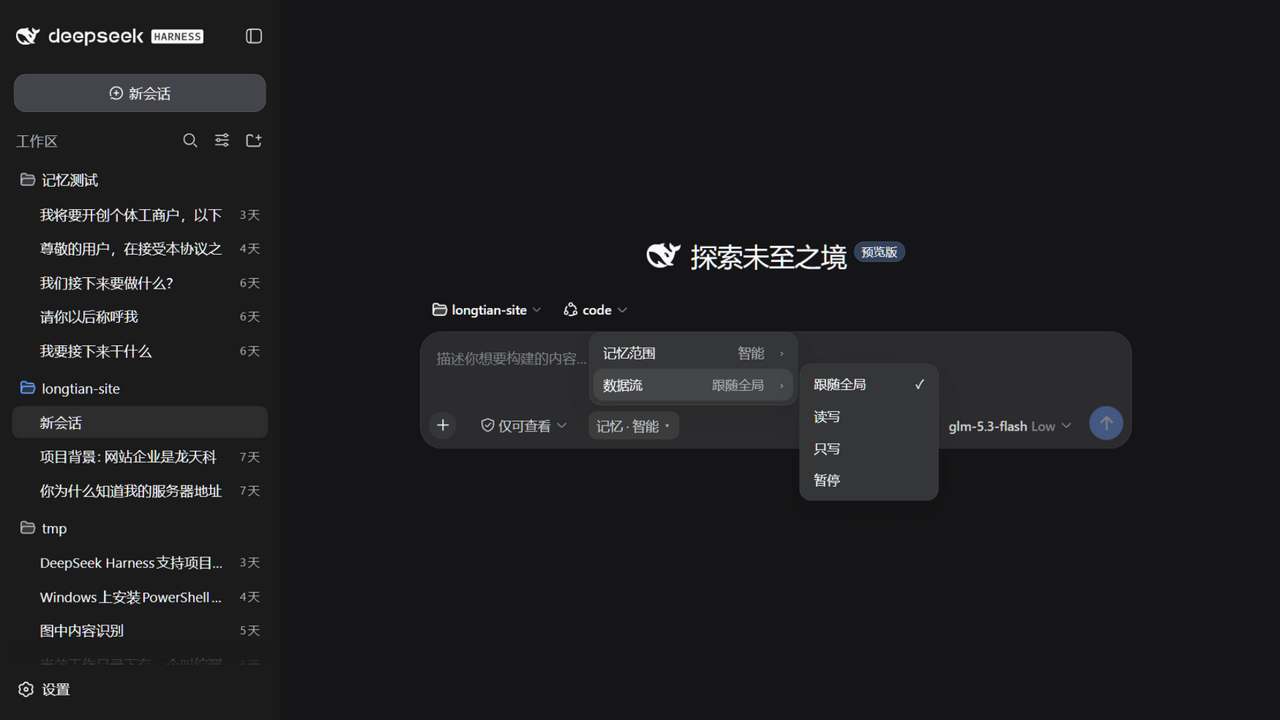
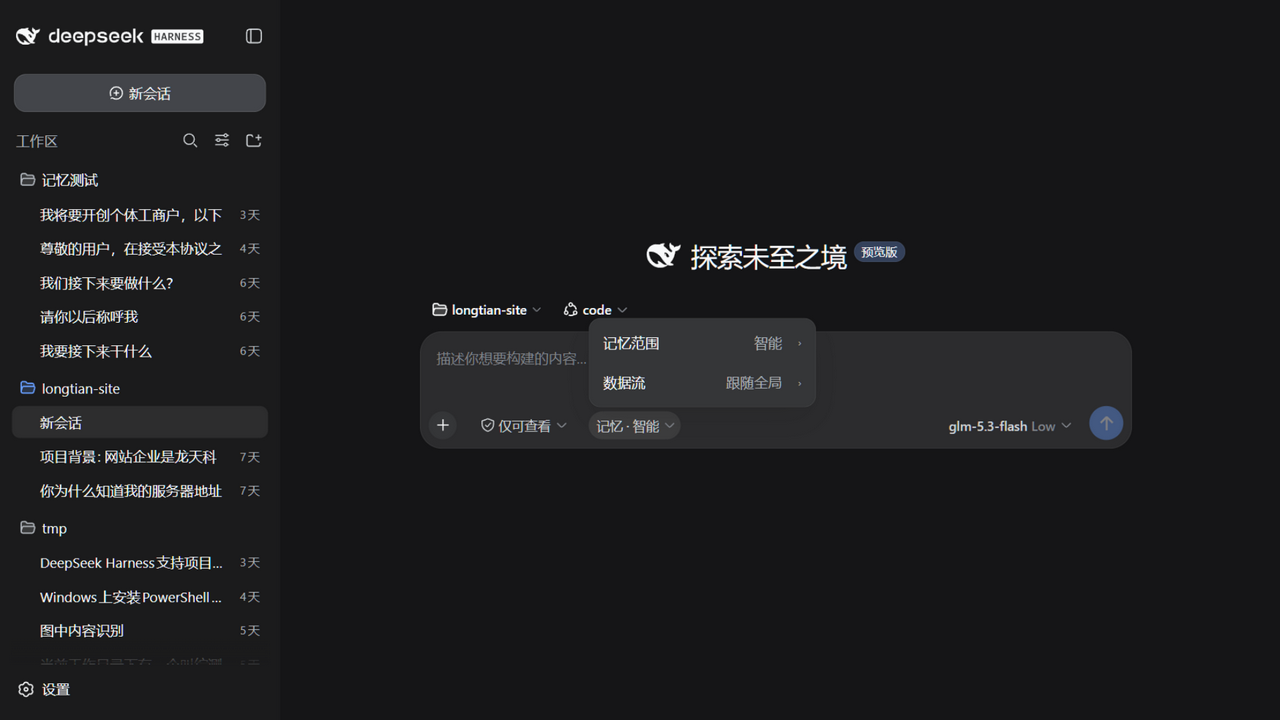
fix(chat): 芯片与级联菜单逐值对齐原生——字重/圆角/SVG箭头/菜单行尺寸
真机量取原生访问模式触发钮（Sh0Q9G_trigger）与原生菜单条目（_item）计算样式，
逐项同步：

- 芯片：字重 400→500、圆角 8→24px、padding 0 8px→0 4px 0 8px；
  chevron 从 10px 文字 ▾ 换成原生 14×14 SVG path 逐字复刻，图标色新令牌
  --dsh-mem-chev（浅 #ADB2B8 / 暗 #81858C，双主题真机实测——用户抓的 #81858C
  实为暗色值，浅色另有其值）
- 级联菜单：行 13px/32px→14px/40px（line-height 22、padding 8px 10px、圆角 10、
  label-primary），浮层与芯片间距 6→4px，min-width 200→218；作用域限定菜单内，
  settings 页 NSel 下拉保持紧凑档不变
- 圆角体系集合扩为 {4,8,10,12,24,999}：24 为原生芯片触发钮实测值，global-spec
  与 smoke §21 白名单同步
- chat-spec / CHANGELOG 同步记录实测值来源；README 配图更新（浅色主题对比图）

真机复验：芯片与原生触发钮全部测量项逐值相等（含双主题 chevron 色）；菜单行
与原生菜单条目逐值相等；typecheck×2 / build / smoke 全绿

Changed region(s): [[0.4375, 0.4278, 0.75, 0.7028], [0.5, 0.5806, 0.5312, 0.6111]]

diff --git a/dist/client.js b/dist/client.js
@@ -747,6 +747,8 @@ var __defProp = Object.defineProperty;
 		    "  --dsh-mem-danger: var(--dsw-alias-state-error-primary, #d0403f);",
 		    "  --dsh-mem-warn: #a8821c;",
 		    "  --dsh-mem-ok: #1f9d55;",
+		    // 原生芯片 chevron 图标色（Sh0Q9G_chevron 真机实测：浅 #ADB2B8 / 暗 #81858C）
+		    "  --dsh-mem-chev: #adb2b8;",
 		    // 图表系列（成本折线图）：8 档固定色，PALETTE 只引用 var()；1 档锚品牌蓝，8 档中性"其他"
 		    "  --dsh-mem-chart-1: #4d6bfe;",
 		    "  --dsh-mem-chart-2: #0e9c8f;",
@@ -789,6 +791,7 @@ var __defProp = Object.defineProperty;
 		    "  --dsh-mem-danger: var(--dsw-alias-state-error-primary, #f4707b);",
 		    "  --dsh-mem-warn: #d9b23c;",
 		    "  --dsh-mem-ok: #52c98d;",
+		    "  --dsh-mem-chev: #81858c;",
 		    "  --dsh-mem-chart-1: #6e85ff;",
 		    "  --dsh-mem-chart-2: #35c4b5;",
 		    "  --dsh-mem-chart-3: #52c98d;",
@@ -1034,24 +1037,32 @@ var __defProp = Object.defineProperty;
 		    // ── 粒子层（点阵场）：浅色 multiply 混合——深蓝点乘在浅蓝填充上沉显对比 ──
 		    "body:not([data-ds-dark-theme]) .dsh-mem-particles { mix-blend-mode: multiply; opacity: 0.82; }",
 		    // ── 会话记忆芯片（分散式，spec v2 §4.1）：官方 composer chip 同款语法——
-		    //    无边框、label-secondary、hover/展开淡底；语义点只在暂停（灰）/降级（琥珀）时出现 ──
+		    //    无边框、label-secondary、hover/展开淡底；语义点只在暂停（灰）/降级（琥珀）时出现。
+		    //    数值逐项对齐原生访问模式触发钮（Sh0Q9G_trigger 真机实测 2026-08-31）：
+		    //    字重 500 / 圆角 24 / padding 左8右4 / gap 4 / chevron 14×14 SVG #81858C（双主题同值） ──
 		    ".dsh-mem-mchip {",
-		    "  display: inline-flex; align-items: center; gap: 4px; height: 28px; padding: 0 8px;",
-		    "  border: none; background: transparent; border-radius: 8px; cursor: pointer;",
-		    "  color: var(--dsh-mem-text-2); font: inherit; font-size: 13px; line-height: 20px; white-space: nowrap;",
+		    "  display: inline-flex; align-items: center; gap: 4px; height: 28px; padding: 0 4px 0 8px;",
+		    "  border: none; background: transparent; border-radius: 24px; cursor: pointer;",
+		    "  color: var(--dsh-mem-text-2); font: inherit; font-size: 13px; font-weight: 500; line-height: 20px; white-space: nowrap;",
 		    "}",
 		    '.dsh-mem-mchip:hover, .dsh-mem-mchip[aria-expanded="true"] { background: var(--dsh-mem-bg-hover); }',
 		    ".dsh-mem-mchip:focus-visible { outline: 2px solid var(--dsh-mem-accent); outline-offset: 1px; }",
-		    ".dsh-mem-mchip-chev { color: var(--dsh-mem-text-3); font-size: 10px; }",
+		    ".dsh-mem-mchip-chev { display: flex; flex: none; color: var(--dsh-mem-chev); }",
 		    ".dsh-mem-mchip-dot { width: 7px; height: 7px; border-radius: 50%; background: var(--dsh-mem-track); flex: none; }",
 		    ".dsh-mem-mchip-dot.warn { background: var(--dsh-mem-warn); }",
 		    // ── 级联菜单（芯片点击展开，向上、左缘对齐芯片）：dsh 原生菜单同配方浮层；
-		    //    行复用 .dsh-mem-pop-opt；行尾当前值 + › 展开指示 ──
+		    //    行复用 .dsh-mem-pop-opt；行尾当前值 + › 展开指示。
+		    //    间距 4px / min-width 218 对齐原生下拉实测；行尺寸 14px·40px·padding 8/10·
+		    //    圆角 10（原生菜单条目实测，settings 页 NSel 下拉不受影响——作用域限定在菜单内） ──
 		    ".dsh-mem-menu {",
-		    "  position: absolute; bottom: calc(100% + 6px); left: 0; z-index: 1000; min-width: 200px; padding: 4px;",
+		    "  position: absolute; bottom: calc(100% + 4px); left: 0; z-index: 1000; min-width: 218px; padding: 4px;",
 		    "  background: var(--dsh-mem-bg-pop); border: 1px solid var(--dsh-mem-border-pop);",
 		    "  border-radius: 12px; box-shadow: var(--dsh-mem-shadow-pop); color: var(--dsh-mem-text-1);",
 		    "}",
+		    ".dsh-mem-menu .dsh-mem-pop-opt, .dsh-mem-sub .dsh-mem-pop-opt {",
+		    "  font-size: 14px; line-height: 22px; min-height: 40px; padding: 8px 10px;",
+		    "}",
+		    ".dsh-mem-menu .dsh-mem-pop-opt-label, .dsh-mem-sub .dsh-mem-pop-opt-label { line-height: 22px; }",
 		    ".dsh-mem-subval { margin-left: auto; color: var(--dsh-mem-text-3); margin-right: 8px; font-variant-numeric: tabular-nums; }",
 		    ".dsh-mem-subchev { color: var(--dsh-mem-text-3); font-size: 10px; transition: transform .15s ease; display: inline-block; }",
 		    ".dsh-mem-sl-row.on .dsh-mem-subchev { transform: rotate(90deg); }",
@@ -1059,7 +1070,7 @@ var __defProp = Object.defineProperty;
 		    //    行与子卡片之间的空隙，慢速移动不断悬停链（10px 宽 > 6px 间隙 + 2px 重叠） ──
 		    ".dsh-mem-subwrap { position: relative; }",
 		    ".dsh-mem-sub {",
-		    "  position: absolute; display: none; top: -5px; left: calc(100% + 6px); min-width: 130px; z-index: 5; padding: 4px;",
+		    "  position: absolute; display: none; top: -5px; left: calc(100% + 6px); min-width: 150px; z-index: 5; padding: 4px;",
 		    "  background: var(--dsh-mem-bg-pop); border: 1px solid var(--dsh-mem-border-pop);",
 		    "  border-radius: 12px; box-shadow: var(--dsh-mem-shadow-pop);",
 		    "}",
@@ -1303,7 +1314,13 @@ var __defProp = Object.defineProperty;
 		        children: [
 		          paused ? /* @__PURE__ */ (0, import_jsx_runtime.jsx)("span", { className: "dsh-mem-mchip-dot", "aria-hidden": true }) : null,
 		          /* @__PURE__ */ (0, import_jsx_runtime.jsx)("span", { className: "mc-label", children: label }),
-		          /* @__PURE__ */ (0, import_jsx_runtime.jsx)("span", { className: "dsh-mem-mchip-chev", "aria-hidden": true, children: "▾" })
+		          /* @__PURE__ */ (0, import_jsx_runtime.jsx)("span", { className: "dsh-mem-mchip-chev", "aria-hidden": true, children: /* @__PURE__ */ (0, import_jsx_runtime.jsx)("svg", { width: "14", height: "14", viewBox: "0 0 14 14", fill: "none", xmlns: "http://www.w3.org/2000/svg", children: /* @__PURE__ */ (0, import_jsx_runtime.jsx)(
+		            "path",
+		            {
+		              d: "M11.8486 5.5L11.4238 5.92383L8.69727 8.65137C8.44157 8.90706 8.21562 9.13382 8.01172 9.29785C7.79912 9.46883 7.55595 9.61756 7.25 9.66602C7.08435 9.69222 6.91565 9.69222 6.75 9.66602C6.44405 9.61756 6.20088 9.46883 5.98828 9.29785C5.78438 9.13382 5.55843 8.90706 5.30273 8.65137L2.57617 5.92383L2.15137 5.5L3 4.65137L3.42383 5.07617L6.15137 7.80273C6.42595 8.07732 6.59876 8.24849 6.74023 8.3623C6.87291 8.46904 6.92272 8.47813 6.9375 8.48047C6.97895 8.48703 7.02105 8.48703 7.0625 8.48047C7.07728 8.47813 7.12709 8.46904 7.25977 8.3623C7.40124 8.24849 7.57405 8.07732 7.84863 7.80273L10.5762 5.07617L11 4.65137L11.8486 5.5Z",
+		              fill: "currentColor"
+		            }
+		          ) }) })
 		        ]
 		      }
 		    ),

diff --git a/client/src/theme.ts b/client/src/theme.ts
@@ -41,6 +41,8 @@ export function ensureThemeStyle() {
     '  --dsh-mem-danger: var(--dsw-alias-state-error-primary, #d0403f);',
     '  --dsh-mem-warn: #a8821c;',
     '  --dsh-mem-ok: #1f9d55;',
+    // 原生芯片 chevron 图标色（Sh0Q9G_chevron 真机实测：浅 #ADB2B8 / 暗 #81858C）
+    '  --dsh-mem-chev: #adb2b8;',
     // 图表系列（成本折线图）：8 档固定色，PALETTE 只引用 var()；1 档锚品牌蓝，8 档中性"其他"
     '  --dsh-mem-chart-1: #4d6bfe;',
     '  --dsh-mem-chart-2: #0e9c8f;',
@@ -83,6 +85,7 @@ export function ensureThemeStyle() {
     '  --dsh-mem-danger: var(--dsw-alias-state-error-primary, #f4707b);',
     '  --dsh-mem-warn: #d9b23c;',
     '  --dsh-mem-ok: #52c98d;',
+    '  --dsh-mem-chev: #81858c;',
     '  --dsh-mem-chart-1: #6e85ff;',
     '  --dsh-mem-chart-2: #35c4b5;',
     '  --dsh-mem-chart-3: #52c98d;',
@@ -328,24 +331,32 @@ export function ensureThemeStyle() {
     // ── 粒子层（点阵场）：浅色 multiply 混合——深蓝点乘在浅蓝填充上沉显对比 ──
     'body:not([data-ds-dark-theme]) .dsh-mem-particles { mix-blend-mode: multiply; opacity: 0.82; }',
     // ── 会话记忆芯片（分散式，spec v2 §4.1）：官方 composer chip 同款语法——
-    //    无边框、label-secondary、hover/展开淡底；语义点只在暂停（灰）/降级（琥珀）时出现 ──
+    //    无边框、label-secondary、hover/展开淡底；语义点只在暂停（灰）/降级（琥珀）时出现。
+    //    数值逐项对齐原生访问模式触发钮（Sh0Q9G_trigger 真机实测 2026-08-31）：
+    //    字重 500 / 圆角 24 / padding 左8右4 / gap 4 / chevron 14×14 SVG #81858C（双主题同值） ──
     '.dsh-mem-mchip {',
-    '  display: inline-flex; align-items: center; gap: 4px; height: 28px; padding: 0 8px;',
-    '  border: none; background: transparent; border-radius: 8px; cursor: pointer;',
-    '  color: var(--dsh-mem-text-2); font: inherit; font-size: 13px; line-height: 20px; white-space: nowrap;',
+    '  display: inline-flex; align-items: center; gap: 4px; height: 28px; padding: 0 4px 0 8px;',
+    '  border: none; background: transparent; border-radius: 24px; cursor: pointer;',
+    '  color: var(--dsh-mem-text-2); font: inherit; font-size: 13px; font-weight: 500; line-height: 20px; white-space: nowrap;',
     '}',
     '.dsh-mem-mchip:hover, .dsh-mem-mchip[aria-expanded="true"] { background: var(--dsh-mem-bg-hover); }',
     '.dsh-mem-mchip:focus-visible { outline: 2px solid var(--dsh-mem-accent); outline-offset: 1px; }',
-    '.dsh-mem-mchip-chev { color: var(--dsh-mem-text-3); font-size: 10px; }',
+    '.dsh-mem-mchip-chev { display: flex; flex: none; color: var(--dsh-mem-chev); }',
     '.dsh-mem-mchip-dot { width: 7px; height: 7px; border-radius: 50%; background: var(--dsh-mem-track); flex: none; }',
     '.dsh-mem-mchip-dot.warn { background: var(--dsh-mem-warn); }',
     // ── 级联菜单（芯片点击展开，向上、左缘对齐芯片）：dsh 原生菜单同配方浮层；
-    //    行复用 .dsh-mem-pop-opt；行尾当前值 + › 展开指示 ──
+    //    行复用 .dsh-mem-pop-opt；行尾当前值 + › 展开指示。
+    //    间距 4px / min-width 218 对齐原生下拉实测；行尺寸 14px·40px·padding 8/10·
+    //    圆角 10（原生菜单条目实测，settings 页 NSel 下拉不受影响——作用域限定在菜单内） ──
     '.dsh-mem-menu {',
-    '  position: absolute; bottom: calc(100% + 6px); left: 0; z-index: 1000; min-width: 200px; padding: 4px;',
+    '  position: absolute; bottom: calc(100% + 4px); left: 0; z-index: 1000; min-width: 218px; padding: 4px;',
     '  background: var(--dsh-mem-bg-pop); border: 1px solid var(--dsh-mem-border-pop);',
     '  border-radius: 12px; box-shadow: var(--dsh-mem-shadow-pop); color: var(--dsh-mem-text-1);',
     '}',
+    '.dsh-mem-menu .dsh-mem-pop-opt, .dsh-mem-sub .dsh-mem-pop-opt {',
+    '  font-size: 14px; line-height: 22px; min-height: 40px; padding: 8px 10px;',
+    '}',
+    '.dsh-mem-menu .dsh-mem-pop-opt-label, .dsh-mem-sub .dsh-mem-pop-opt-label { line-height: 22px; }',
     '.dsh-mem-subval { margin-left: auto; color: var(--dsh-mem-text-3); margin-right: 8px; font-variant-numeric: tabular-nums; }',
     '.dsh-mem-subchev { color: var(--dsh-mem-text-3); font-size: 10px; transition: transform .15s ease; display: inline-block; }',
     '.dsh-mem-sl-row.on .dsh-mem-subchev { transform: rotate(90deg); }',
@@ -353,7 +364,7 @@ export function ensureThemeStyle() {
     //    行与子卡片之间的空隙，慢速移动不断悬停链（10px 宽 > 6px 间隙 + 2px 重叠） ──
     '.dsh-mem-subwrap { position: relative; }',
     '.dsh-mem-sub {',
-    '  position: absolute; display: none; top: -5px; left: calc(100% + 6px); min-width: 130px; z-index: 5; padding: 4px;',
+    '  position: absolute; display: none; top: -5px; left: calc(100% + 6px); min-width: 150px; z-index: 5; padding: 4px;',
     '  background: var(--dsh-mem-bg-pop); border: 1px solid var(--dsh-mem-border-pop);',
     '  border-radius: 12px; box-shadow: var(--dsh-mem-shadow-pop);',
     '}',

diff --git a/src/smoke.ts b/src/smoke.ts
@@ -2793,15 +2793,16 @@ async function main(): Promise<void> {
     );
     // 侧边栏 icon 补丁（书本）
     assert(clientSrc.includes('patchSidebarIcon') && clientSrc.includes('BOOK_ICON_SVG'), '侧边栏书本 icon 补丁');
-    // 圆角体系锁定：inline borderRadius 与 CSS border-radius 只允许 {4,8,10,12,999,50%}
-    //（4px 仅限重建进度条内轨，8=控件，10=卡片，12=浮层，999=胶囊）
+    // 圆角体系锁定：inline borderRadius 与 CSS border-radius 只允许 {4,8,10,12,24,999,50%}
+    //（4px 仅限重建进度条内轨，8=控件，10=卡片/菜单条目，12=浮层，24=原生芯片触发钮
+    //  实测值——与宿主 Sh0Q9G_trigger 对齐，999=胶囊）
     const inlineR = [...clientSrc.matchAll(/borderRadius: ([^,}]+)/g)].map((m) => m[1].trim().replace(/^"|"$/g, ''));
     assert(inlineR.length > 0, '圆角断言取样非空');
     for (const r of inlineR) {
-      assert(r === '50%' || ['4', '8', '10', '12', '999'].includes(r), `inline 圆角合规：${r}`);
+      assert(r === '50%' || ['4', '8', '10', '12', '24', '999'].includes(r), `inline 圆角合规：${r}`);
     }
     const cssR = [...clientSrc.matchAll(/border-radius: (\d+)px/g)].map((m) => m[1]);
-    for (const r of cssR) assert(['4', '8', '10', '12', '999'].includes(r), `CSS 圆角合规：${r}px`);
+    for (const r of cssR) assert(['4', '8', '10', '12', '24', '999'].includes(r), `CSS 圆角合规：${r}px`);
     // 可见文案零 em-dash（design-taste 铁律；代码注释除外）
     const emDashInString = clientSrc.match(/"[^"\n]*—[^"\n]*"/);
     assert(!emDashInString, `字符串内出现 em-dash：${emDashInString?.[0] ?? ''}`);

diff --git a/client/src/chat/MemoryChip.tsx b/client/src/chat/MemoryChip.tsx
@@ -234,7 +234,15 @@ export function MemoryChip(props: { rpc: RpcFn; sessionId?: string; session?: { 
       >
         {paused ? <span className="dsh-mem-mchip-dot" aria-hidden={true} /> : null}
         <span className="mc-label">{label}</span>
-        <span className="dsh-mem-mchip-chev" aria-hidden={true}>▾</span>
+        {/* 原生芯片 chevron 逐字复刻（Sh0Q9G_chevron 的 14×14 path，颜色走 --dsh-mem-chev） */}
+        <span className="dsh-mem-mchip-chev" aria-hidden={true}>
+          <svg width="14" height="14" viewBox="0 0 14 14" fill="none" xmlns="http://www.w3.org/2000/svg">
+            <path
+              d="M11.8486 5.5L11.4238 5.92383L8.69727 8.65137C8.44157 8.90706 8.21562 9.13382 8.01172 9.29785C7.79912 9.46883 7.55595 9.61756 7.25 9.66602C7.08435 9.69222 6.91565 9.69222 6.75 9.66602C6.44405 9.61756 6.20088 9.46883 5.98828 9.29785C5.78438 9.13382 5.55843 8.90706 5.30273 8.65137L2.57617 5.92383L2.15137 5.5L3 4.65137L3.42383 5.07617L6.15137 7.80273C6.42595 8.07732 6.59876 8.24849 6.74023 8.3623C6.87291 8.46904 6.92272 8.47813 6.9375 8.48047C6.97895 8.48703 7.02105 8.48703 7.0625 8.48047C7.07728 8.47813 7.12709 8.46904 7.25977 8.3623C7.40124 8.24849 7.57405 8.07732 7.84863 7.80273L10.5762 5.07617L11 4.65137L11.8486 5.5Z"
+              fill="currentColor"
+            />
+          </svg>
+        </span>
       </button>
       {menuOpen ? (
         <div className="dsh-mem-menu" ref={menuRef} role="menu" aria-label={t('chip.base')}>

diff --git a/design/chat-spec.md b/design/chat-spec.md
@@ -15,16 +15,24 @@
 
 ## 记忆芯片（.dsh-mem-mchip）
 
-- 官方 composer chip 语法：无边框、28px 高、label-secondary、hover/展开淡底、`▾`。
+- 官方 composer chip 语法，**数值逐项对齐原生访问模式触发钮（Sh0Q9G_trigger 真机实测
+  2026-08-31）**：高 28 / 字号 13 / **字重 500** / **圆角 24px** / padding 左 8 右 4 /
+  gap 4 / label-secondary 色；hover/展开淡底（bg-hover）。
+- chevron = **原生 SVG 逐字复刻**（Sh0Q9G_chevron 14×14 path，fill currentColor；
+  图标色令牌 `--dsh-mem-chev`：浅 #ADB2B8 / 暗 #81858C，双主题实测值）。
 - 文案 = 解析真值（live）：`记忆 · {智能|日常|工作}`（注入生效）/ `记忆 · 只写`
   （recallResolved=false）/ `记忆 · 暂停`（off 档，前置灰点）/ `记忆 · 降级`（warn 点）。
 - 暂停档显示的档位 = host 暂停快照 `resume.scope`（暂停前范围），无快照回退默认档。
 
 ## 级联菜单（.dsh-mem-menu）
 
-- 点击芯片向上展开（`bottom: calc(100% + 6px)`，左缘对齐芯片），dsh 原生菜单同配方
-  浮层（menu 底 + inverted 描边 + lv3 阴影 + 12px 圆角），行复用 `.dsh-mem-pop-opt`。
-- 两行：`记忆范围 {值} ›` / `数据流 {值} ›`（行尾当前值 `.dsh-mem-subval`）。
+- 点击芯片向上展开（`bottom: calc(100% + 4px)`，左缘对齐芯片），dsh 原生菜单同配方
+  浮层（menu 底 + inverted 描边 + lv3 阴影 + 12px 圆角 + 4px 内衬 + min-width 218），
+  行复用 `.dsh-mem-pop-opt`。
+- **行尺寸对齐原生菜单条目（_item 实测）**：字号 **14px** / 行高 22 / **min-height 40px** /
+  padding 8px 10px / 圆角 10 / label-primary 色。作用域限定 `.dsh-mem-menu` /
+  `.dsh-mem-sub` 内——settings 页 NSel 下拉保持 13/32 紧凑档不受影响。
+- 两行：`记忆范围 {值} ›` / `数据流 {值} ›`（行尾当前值 `.dsh-mem-subval`，13px text-3）。
 - **范围行点击** = 原地展开内联滑条（见下）；再点收起。展开期间数据流行 `hidden`。
 - **数据流行** hover 二级子面板（`.dsh-mem-sub`，右浮）：跟随全局✓/读写/只写/暂停。
   仅 hover 揭示、点击不固定（用户裁定）；`::before` 10px 桥接热区保证慢速移动不断链。

diff --git a/CHANGELOG.md b/CHANGELOG.md
@@ -17,8 +17,11 @@
 #### 会话侧（分散式）
 
 - **记忆芯片**取代档位 pill：输入栏左簇、Read Only 芯片右侧的 `记忆 · {智能|日常|工作}`
-  无边框芯片（官方 composer chip 语法），文案 = 解析真值（只写/暂停/降级态带语义点），
-  全部走 zh/en 字典（随宿主语言切换）。
+  无边框芯片，数值逐项对齐原生访问模式触发钮（真机实测：字重 500 / 圆角 24 / padding
+  8·4 / chevron 为原生 14×14 SVG 逐字复刻，图标色双主题同值），文案 = 解析真值
+  （只写/暂停/降级态带语义点），全部走 zh/en 字典（随宿主语言切换）。
+  级联菜单行尺寸同步原生菜单条目（14px / 40px 高 / padding 8·10 / 圆角 10，浮层间距
+  4px、min-width 218）。
   ![记忆芯片与级联菜单](./assets/changelog/0.9.0/01-记忆芯片级联菜单.png)
 - **级联菜单**：芯片点击向上展开两行（记忆范围/数据流 + 行尾当前值）；数据流选项在
   hover 二级子面板（跟随全局/读写/只写/暂停），点击不固定、`::before` 桥接热区保证
